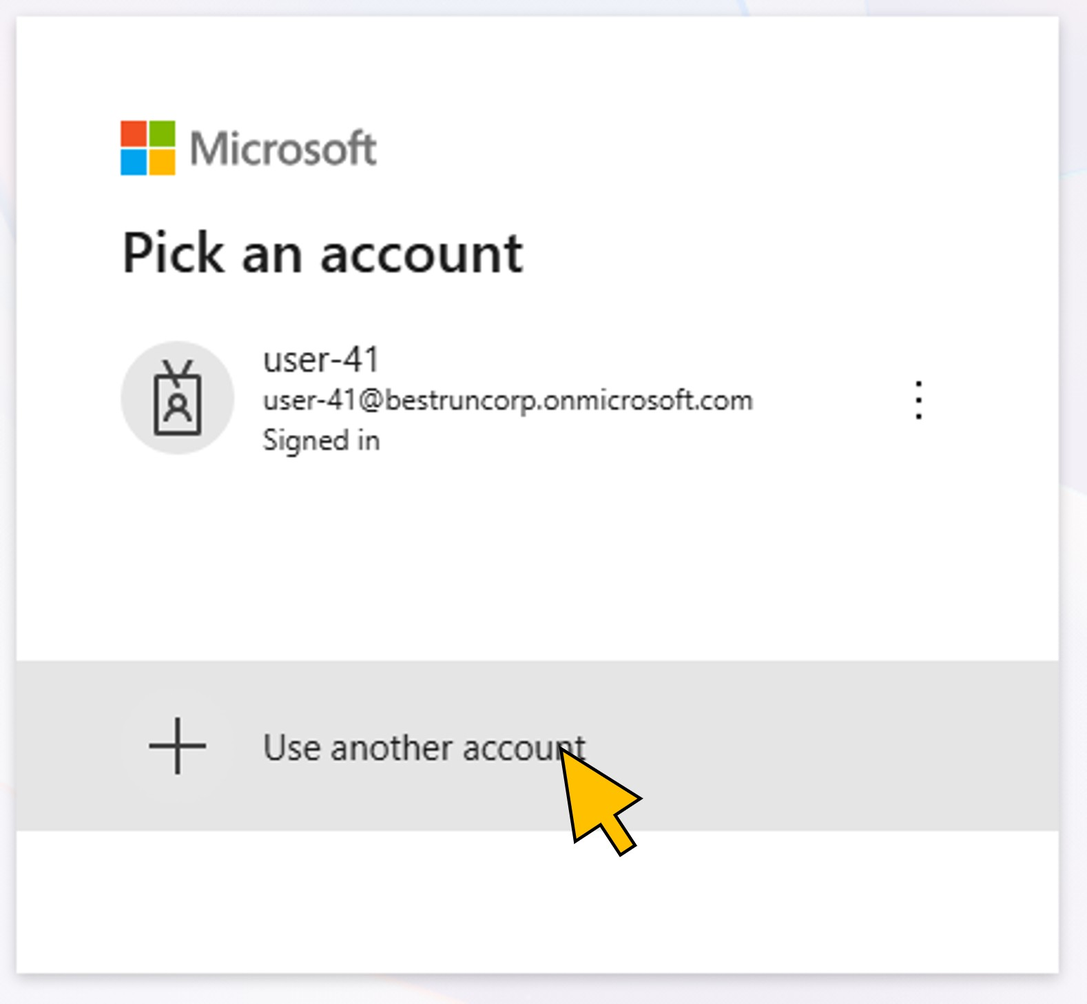
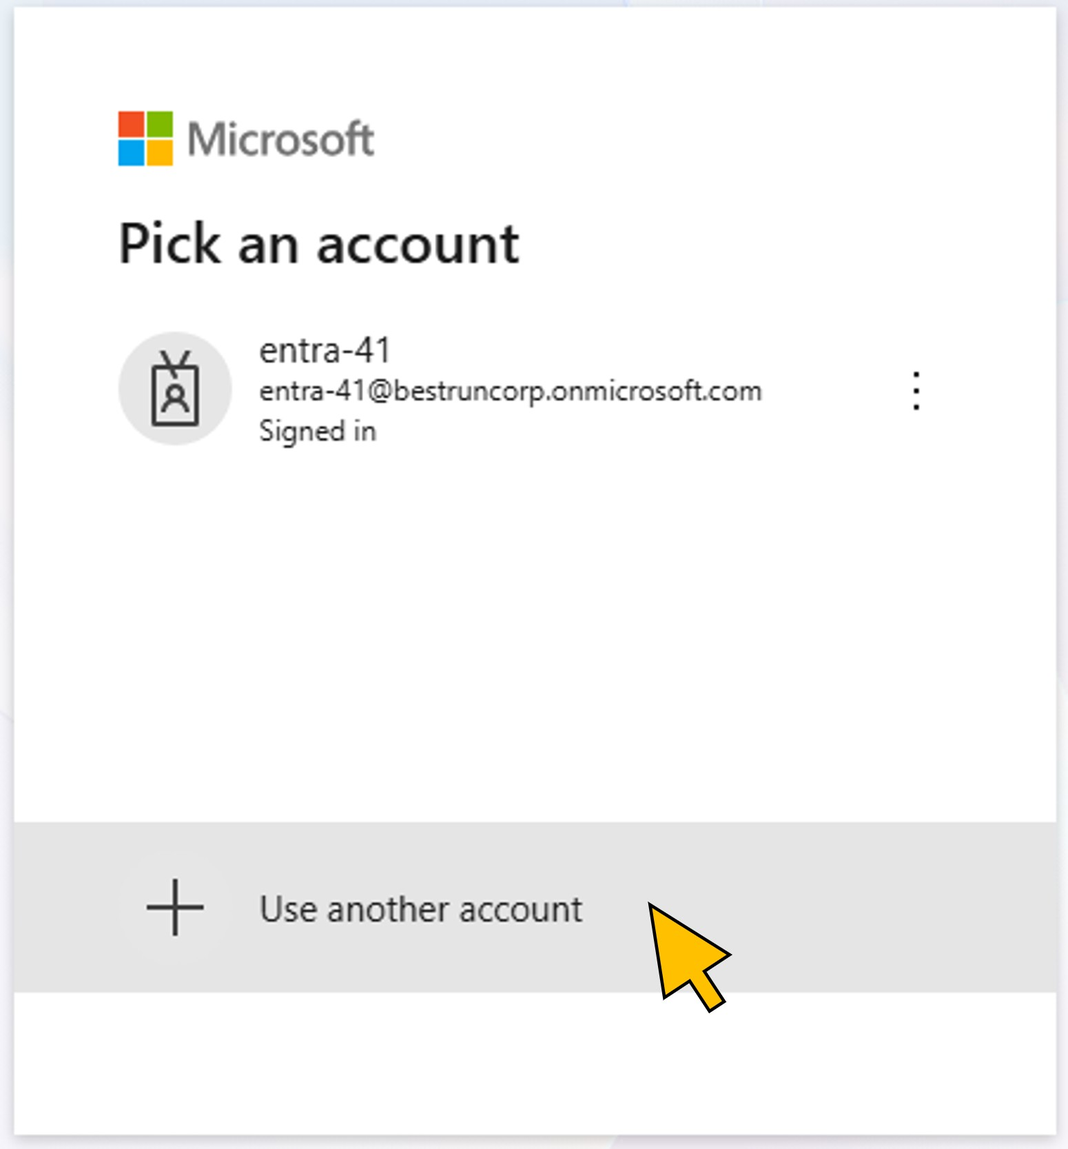
Added exercise 6

Changed region(s): [[0.0, 0.0309, 1.0, 1.0], [0.0929, 0.0927, 0.7123, 0.4633], [0.8052, 0.0, 0.8361, 0.0309]]

diff --git a/exercises/ex2/README.md b/exercises/ex2/README.md
@@ -7,7 +7,7 @@ In this exercise, you will work as a **Microsoft Entra administrator** and confi
 
 *Figure 1: Exercise 2*<br><br>
 
-Microsoft Entra entitlement management organizes access through **catalogs**, **resources**, and **access packages**. An access package bundles the resources that a user needs for a particular business purpose and defines the policies governing how that access can be requested and approved.
+Microsoft Entra ID Entitlement Management organizes access through **catalogs**, **resources**, and **access packages**. An access package bundles the resources that a user needs for a particular business purpose and defines the policies governing how that access can be requested and approved.
 
 For this scenario, the SAP Cloud IAG business role `BR_XP263_<NN>` is made available as a resource in the Microsoft Entra catalog. You will include this resource in the `AP_XP263_<NN>` access package together with the Microsoft Entra resources required by the scenario.
 
@@ -20,32 +20,32 @@ At the end of this exercise, the access package is available for eligible busine
 | :----- | :------------------------- | :--------- |
 | 01     | Switch back to the **Microsoft Entra admin center** in the first browser tab.<br><br>Navigate to **ID Governance &rarr; Entitlement management**.|<a href="./images/2-1.jpg" target="_blank"><img src="./images/2-1.jpg" width="250"/></a>|
 | 02     | Select **Catalogs** from the **Entitlement management** submenu.<br><br>Click **New catalog**.|<a href="./images/2-2.jpg" target="_blank"><img src="./images/2-2.jpg" width="250"/></a>|
-| 03     | Enter **`XP263_<NN>`** for the name of the new catalog. |<a href="./images/2-3.jpg" target="_blank"><img src="./images/2-3.jpg" width="250"/></a>|
-| 04     | abc |<a href="./images/2-4.jpg" target="_blank"><img src="./images/2-4.jpg" width="250"/></a>|
-| 05     | abc |<a href="./images/2-5.jpg" target="_blank"><img src="./images/2-5.jpg" width="250"/></a>|
-| 06     | abc |<a href="./images/2-6.jpg" target="_blank"><img src="./images/2-6.jpg" width="250"/></a>|
-| 07     | abc |<a href="./images/2-7.jpg" target="_blank"><img src="./images/2-7.jpg" width="250"/></a>|
-| 08     | abc |<a href="./images/2-8.jpg" target="_blank"><img src="./images/2-8.jpg" width="250"/></a>|
-| 09     | abc |<a href="./images/2-9.jpg" target="_blank"><img src="./images/2-9.jpg" width="250"/></a>|
-| 10     | abc |<a href="./images/2-10.jpg" target="_blank"><img src="./images/2-10.jpg" width="250"/></a>|
-| 11     | abc |<a href="./images/2-11.jpg" target="_blank"><img src="./images/2-11.jpg" width="250"/></a>|
-| 12     | abc |<a href="./images/2-12.jpg" target="_blank"><img src="./images/2-12.jpg" width="250"/></a>|
-| 13     | abc |<a href="./images/2-13.jpg" target="_blank"><img src="./images/2-13.jpg" width="250"/></a>|
-| 14     | abc |<a href="./images/2-14.jpg" target="_blank"><img src="./images/2-14.jpg" width="250"/></a>|
-| 15     | abc |<a href="./images/2-15.jpg" target="_blank"><img src="./images/2-15.jpg" width="250"/></a>|
-| 16     | abc |<a href="./images/2-16.jpg" target="_blank"><img src="./images/2-16.jpg" width="250"/></a>|
-| 17     | abc |<a href="./images/2-17.jpg" target="_blank"><img src="./images/2-17.jpg" width="250"/></a>|
-| 18     | abc |<a href="./images/2-18.jpg" target="_blank"><img src="./images/2-18.jpg" width="250"/></a>|
-| 19     | abc |<a href="./images/2-19.jpg" target="_blank"><img src="./images/2-19.jpg" width="250"/></a>|
-| 20     | abc |<a href="./images/2-20.jpg" target="_blank"><img src="./images/2-20.jpg" width="250"/></a>|
-| 21     | abc |<a href="./images/2-21.jpg" target="_blank"><img src="./images/2-21.jpg" width="250"/></a>|
-| 22     | abc |<a href="./images/2-22.jpg" target="_blank"><img src="./images/2-22.jpg" width="250"/></a>|
-| 23     | abc |<a href="./images/2-23.jpg" target="_blank"><img src="./images/2-23.jpg" width="250"/></a>|
-| 24     | abc |<a href="./images/2-24.jpg" target="_blank"><img src="./images/2-24.jpg" width="250"/></a>|
-| 25     | abc |<a href="./images/2-25.jpg" target="_blank"><img src="./images/2-25.jpg" width="250"/></a>|
-| 26     | abc |<a href="./images/2-26.jpg" target="_blank"><img src="./images/2-26.jpg" width="250"/></a>|
-| 27     | abc |<a href="./images/2-27.jpg" target="_blank"><img src="./images/2-27.jpg" width="250"/></a>|
-| 28     | abc |<a href="./images/2-28.jpg" target="_blank"><img src="./images/2-28.jpg" width="250"/></a>|
+| 03     | Enter **`XP263_<NN>`** for the name of the new catalog, and a description, for example "*Catalog for session XP263*". Replace **`<NN>`** with the number of your seat.<br><br>Click **Create**. |<a href="./images/2-3.jpg" target="_blank"><img src="./images/2-3.jpg" width="250"/></a>|
+| 04     | Select your new catalog **`XP263_<NN>`** from the list. |<a href="./images/2-4.jpg" target="_blank"><img src="./images/2-4.jpg" width="250"/></a>|
+| 05     | Navigate to **Resources** in the menu.<br><br>Click **Add resources**.|<a href="./images/2-5.jpg" target="_blank"><img src="./images/2-5.jpg" width="250"/></a>|
+| 06     | Click **Groups and Teams**.|<a href="./images/2-6.jpg" target="_blank"><img src="./images/2-6.jpg" width="250"/></a>|
+| 07     | In the search bar, enter "*Procurement*". From the search results, **activate** the checkbox for the group **ProcurementTeam** to select it.<br><br>Click **Select**.|<a href="./images/2-7.jpg" target="_blank"><img src="./images/2-7.jpg" width="250"/></a>|
+| 08     | Click **External Resources**.|<a href="./images/2-8.jpg" target="_blank"><img src="./images/2-8.jpg" width="250"/></a>|
+| 09     | From the **Connector** drop-down list, select **SAP TechEd XP263**.<br>For **Resource Type**, select **Business Role**.<br><br>Click on the resource **SAP IAG Access Rights** to select it.<br><br>Click **Select**.|<a href="./images/2-9.jpg" target="_blank"><img src="./images/2-9.jpg" width="250"/></a>|
+| 10     | Click **Add**. |<a href="./images/2-10.jpg" target="_blank"><img src="./images/2-10.jpg" width="250"/></a>|
+| 11     | Navigate to **Access packages** in the menu. Click **New access package**.|<a href="./images/2-11.jpg" target="_blank"><img src="./images/2-11.jpg" width="250"/></a>|
+| 12     | Enter **`AP_XP263_<NN>`** for the **Name** of the new acccess package, and provide a **Description** (for example "*Access package for session XP263*).<br><br>Click **Next: Resource roles**.|<a href="./images/2-12.jpg" target="_blank"><img src="./images/2-12.jpg" width="250"/></a>|
+| 13     | Click **Groups and Teams**. |<a href="./images/2-13.jpg" target="_blank"><img src="./images/2-13.jpg" width="250"/></a>|
+| 14     | **Activate** the checkbox for **ProcurementTeam** from the search results to select it.<br><br>Click **Select**. |<a href="./images/2-14.jpg" target="_blank"><img src="./images/2-14.jpg" width="250"/></a>|
+| 15     | From the **Role** drop-down list of the **ProcurementTeam** group resource, select **Member**. |<a href="./images/2-15.jpg" target="_blank"><img src="./images/2-15.jpg" width="250"/></a>|
+| 16     | Click **External Resources**. |<a href="./images/2-16.jpg" target="_blank"><img src="./images/2-16.jpg" width="250"/></a>|
+| 17     | Click **SAP IAG Access Rights** from the list to select it.<br><br>Click **Select**.|<a href="./images/2-17.jpg" target="_blank"><img src="./images/2-17.jpg" width="250"/></a>|
+| 18     | From the **Role** drop-down list of the **SAP IAG Access Rights** business role resource, select the business role **`BR_XP263_<NN>`** you created in the [previous exercise](../ex1/README.md).<br><br>Replace **`<NN>`** with the number of your seat.|<a href="./images/2-18.jpg" target="_blank"><img src="./images/2-18.jpg" width="250"/></a>|
+| 19     | Click **Next: Requests**. |<a href="./images/2-19.jpg" target="_blank"><img src="./images/2-19.jpg" width="250"/></a>|
+| 20     | For **Who can get access**, select the first option **For users, service principals, and agent identities in your directory**.<br><br>For **Select specific scope**, select the option **Specifc users and groups**.<br><br>Click **+ Add users and groups**. |<a href="./images/2-20.jpg" target="_blank"><img src="./images/2-20.jpg" width="250"/></a>|
+| 21     | Enter your business user's name **`user-<NN>`** in the search bar. Replace **`<NN>`** with the number of your seat.<br><br>From the search results, activate the checkbox to select your user.<br><br>Click **Select**.|<a href="./images/2-21.jpg" target="_blank"><img src="./images/2-21.jpg" width="250"/></a>|
+| 22     | For **Who can request access**, **activate** the checkbox for **Self**.<br><br>Choose **No** for **Require requestor justification**.<br><br>For the **Approval** settings, select **Yes** to **Require approval**, and **1** for **How many stages**.<br><br>From the **First Approver** drop-down list, select **Choose specific approvers**.<br><br>Click **Add approvers**.|<a href="./images/2-22.jpg" target="_blank"><img src="./images/2-22.jpg" width="250"/></a>|
+| 23     | Enter your Entra approver's name **`entra-<NN>`** in the search bar. Replace **`<NN>`** with the number of your seat.<br><br>From the search results, activate the checkbox to select your user.<br><br>Click **Select**. |<a href="./images/2-23.jpg" target="_blank"><img src="./images/2-23.jpg" width="250"/></a>|
+| 24     | Choose **No** for **Require approver justification**.<br><br>Choose **Yes** for **Disable assignment emails**.<br><br>Click **Next: Requestor Information**. |<a href="./images/2-24.jpg" target="_blank"><img src="./images/2-24.jpg" width="250"/></a>|
+| 25     | Click **Next: Lifecycle**. |<a href="./images/2-25.jpg" target="_blank"><img src="./images/2-25.jpg" width="250"/></a>|
+| 26     | Choose **Never** for **Access package assignment expire**.<br><br>Choose **No** for **Users can request specific timeline**.<br><br>Choose **No** for **Allow users to extend access**.<br><br>**Click Review + create**.|<a href="./images/2-26.jpg" target="_blank"><img src="./images/2-26.jpg" width="250"/></a>|
+| 27     | Click **Create**. |<a href="./images/2-27.jpg" target="_blank"><img src="./images/2-27.jpg" width="250"/></a>|
+| 28     | **Copy** the link of the new **access package** in the **My Access portal** to the clipboard. |<a href="./images/2-28.jpg" target="_blank"><img src="./images/2-28.jpg" width="250"/></a>|
 
 
 Continue to - [Exercise 3 - Request the access package in Microsoft Entra](../ex3/README.md)

diff --git a/exercises/ex6/README.md b/exercises/ex6/README.md
@@ -17,10 +17,25 @@ At the end of this exercise, you will have completed the full scenario.
 
 | Step   | Description                | Screenshot |
 | :----- | :------------------------- | :--------- |
-| 01     | abc |<a href="./images/6-1.jpg" target="_blank"><img src="./images/6-1.jpg" width="250"/></a>|
-| 02     | abc |<a href="./images/6-2.jpg" target="_blank"><img src="./images/6-2.jpg" width="250"/></a>|
-| 03     | abc |<a href="./images/6-3.jpg" target="_blank"><img src="./images/6-3.jpg" width="250"/></a>|
-| 04     | abc |<a href="./images/6-4.jpg" target="_blank"><img src="./images/6-4.jpg" width="250"/></a>|
-| 05     | abc |<a href="./images/6-5.jpg" target="_blank"><img src="./images/6-5.jpg" width="250"/></a>|
-| 06     | abc |<a href="./images/6-6.jpg" target="_blank"><img src="./images/6-6.jpg" width="250"/></a>|
-| 07     | abc |<a href="./images/6-7.jpg" target="_blank"><img src="./images/6-7.jpg" width="250"/></a>|
+| 01     | Go back to the **Google Chrome** browser and switch to the second tab. If your session has already expired, login again to the SAP Cloud IAG tenant with your IAG admin user **`admin-<NN>`**.<br><br>Navigate **back** to the **Home** page of the SAP Cloud IAG Fiori Launchpad.|<a href="./images/6-1.jpg" target="_blank"><img src="./images/6-1.jpg" width="250"/></a>|
+| 02     | On the **Home** page, click the **Job Scheduler** tile. |<a href="./images/6-2.jpg" target="_blank"><img src="./images/6-2.jpg" width="250"/></a>|
+| 03     | Enter *`XP263_<NN>`* for the **Job Name**.<br><br>Replace **`<NN>`** with the number of your seat.<br><br>Select **Provisioning** from the **Job Category** drop-down list.<br><br>Click **Schedule Job**.|<a href="./images/6-3.jpg" target="_blank"><img src="./images/6-3.jpg" width="250"/></a>|
+| 04     | Navigate **back** to the **Home** page. |<a href="./images/6-4.jpg" target="_blank"><img src="./images/6-4.jpg" width="250"/></a>|
+| 05     | Click the **Job History List** tile.|<a href="./images/6-5.jpg" target="_blank"><img src="./images/6-5.jpg" width="250"/></a>|
+| 06     | Expand the **Provisioning** Job Category and select your job with the name *`XP263_<NN>`* from the list.|<a href="./images/6-6.jpg" target="_blank"><img src="./images/6-6.jpg" width="250"/></a>|
+| 07     | Wait for the **Status** to be **Completed**. Click **Refresh** to update the status.<br><br>Then select the job execution from the list and switch to the **Job Logs** tab.<br><br>In the Job Logs, search for two entries reporting successful provisioning of the **ProcurementManager** assignment in the SAP BTP CAP application, and the **Z_MM_PURCHASER** role in the S/4HANA system. |<a href="./images/6-7.jpg" target="_blank"><img src="./images/6-7.jpg" width="250"/></a>|
+| 08     | Go back to the **Microsoft Edge browser** and open a new **InPrivate** window. |<a href="./images/6-8.jpg" target="_blank"><img src="./images/6-8.jpg" width="250"/></a>|
+| 09     | Go to the [Purchase Requisition App](https://sap-teched-2026-xp263-xp263-6cntx8l6-dev-procurement.cfapps.us20.hana.ondemand.com/) at `https://sap-teched-2026-xp263-xp263-6cntx8l6-dev-procurement.cfapps.us20.hana.ondemand.com/` on SAP BTP.<br><br>Login with your business user's account **`user-<NN>@bestruncorp.onmicrosoft.com`**.<br><br> Replace **`<NN>`** with the number of your seat.<br><br> |<a href="./images/6-9.jpg" target="_blank"><img src="./images/6-9.jpg" width="250"/></a>|
+| 10     | Enter the user's password.<br><br>Click **Sign in**.|<a href="./images/6-10.jpg" target="_blank"><img src="./images/6-10.jpg" width="250"/></a>|
+| 11     | Click **Next**. |<a href="./images/6-11.jpg" target="_blank"><img src="./images/6-11.jpg" width="250"/></a>|
+| 12     | Click **Skip setup**. |<a href="./images/6-12.jpg" target="_blank"><img src="./images/6-12.jpg" width="250"/></a>|
+| 13     | Click **Yes**. |<a href="./images/6-13.jpg" target="_blank"><img src="./images/6-13.jpg" width="250"/></a>|
+| 14     | You are successfully signed on in the SAP BTP application and are authorized to **manage purchase requisitions**.|<a href="./images/6-14.jpg" target="_blank"><img src="./images/6-14.jpg" width="250"/></a>|
+| 15     | Open the Windows **Start** menu on the desktop and launch the **SAP Logon** app.|<a href="./images/6-15.jpg" target="_blank"><img src="./images/6-15.jpg" width="250"/></a>|
+| 16     | Select the S/4HANA backend system **HE4** from the list. |<a href="./images/6-16.jpg" target="_blank"><img src="./images/6-16.jpg" width="250"/></a>|
+| 17     | Login with your backend system user **`USER-<NN>`**.<br><br> Replace **`<NN>`** with the number of your seat.|<a href="./images/6-17.jpg" target="_blank"><img src="./images/6-17.jpg" width="250"/></a>|
+| 18     | Provide a new password of your choice. |<a href="./images/6-18.jpg" target="_blank"><img src="./images/6-18.jpg" width="250"/></a>|
+| 19     | You are successfully signed on in the S/4HANA system and authorized to **manage purchase orders**.|<a href="./images/6-19.jpg" target="_blank"><img src="./images/6-19.jpg" width="250"/></a>|
+| 20     | In your **Microsoft Edge** browser, go back to the *Microsoft Entra admin center* on the **first** tab.<br><br>Navigate to **Requests** in your access package.<br><br>Verify that the **Status** and **Sub-status** of your business user's access package request are both set to *`Delivered`*.|<a href="./images/6-20.jpg" target="_blank"><img src="./images/6-20.jpg" width="250"/></a>|
+| 21     | Navigate to **Entra ID &rarr; Groups**.<br><br>Enter *"Procurement"* in the **search** field.<br><br>Click on the **ProcurementTeam** group in the search results.|<a href="./images/6-21.jpg" target="_blank"><img src="./images/6-21.jpg" width="250"/></a>|
+| 22     | Navigate to **Members**.<br><br>Verify that your business user **`user-<NN>`** has been added as a group member.|<a href="./images/6-22.jpg" target="_blank"><img src="./images/6-22.jpg" width="250"/></a>|

diff --git a/exercises/ex5/README.md b/exercises/ex5/README.md
@@ -17,17 +17,17 @@ At the end of this exercise, all required approvals are complete and SAP Cloud I
 
 | Step   | Description                | Screenshot |
 | :----- | :------------------------- | :--------- |
-| 01     | abc |<a href="./images/5-1.jpg" target="_blank"><img src="./images/5-1.jpg" width="250"/></a>|
-| 02     | abc |<a href="./images/5-2.jpg" target="_blank"><img src="./images/5-2.jpg" width="250"/></a>|
-| 03     | abc |<a href="./images/5-3.jpg" target="_blank"><img src="./images/5-3.jpg" width="250"/></a>|
-| 04     | abc |<a href="./images/5-4.jpg" target="_blank"><img src="./images/5-4.jpg" width="250"/></a>|
-| 05     | abc |<a href="./images/5-5.jpg" target="_blank"><img src="./images/5-5.jpg" width="250"/></a>|
-| 06     | abc |<a href="./images/5-6.jpg" target="_blank"><img src="./images/5-6.jpg" width="250"/></a>|
-| 07     | abc |<a href="./images/5-7.jpg" target="_blank"><img src="./images/5-7.jpg" width="250"/></a>|
-| 08     | abc |<a href="./images/5-8.jpg" target="_blank"><img src="./images/5-8.jpg" width="250"/></a>|
-| 09     | abc |<a href="./images/5-9.jpg" target="_blank"><img src="./images/5-9.jpg" width="250"/></a>|
-| 10     | abc |<a href="./images/5-10.jpg" target="_blank"><img src="./images/5-10.jpg" width="250"/></a>|
-| 11     | abc |<a href="./images/5-11.jpg" target="_blank"><img src="./images/5-11.jpg" width="250"/></a>|
-| 12     | abc |<a href="./images/5-12.jpg" target="_blank"><img src="./images/5-12.jpg" width="250"/></a>|
+| 01     | Open a **new tab** in the Microsoft Edge browser. |<a href="./images/5-1.jpg" target="_blank"><img src="./images/5-1.jpg" width="250"/></a>|
+| 02     | Go to the SAP Cloud IAG tenant URL [https://xp263-6cntx8l6.sapciag-ee.cfapps.us20.hana.ondemand.com](https://xp263-6cntx8l6.sapciag-ee.cfapps.us20.hana.ondemand.com).<br><br>To login, **click** the first identity provider (**axzamhxt8.accounts.ondemand.com**) from the list. |<a href="./images/5-2.jpg" target="_blank"><img src="./images/5-2.jpg" width="250"/></a>|
+| 03     | Click **Use another account**. |<a href="./images/5-3.jpg" target="_blank"><img src="./images/5-3.jpg" width="250"/></a>|
+| 04     | Enter your IAG approver's username **`iag-<NN>@bestruncorp.onmicrosoft.com`**.<br><br>Replace **`<NN>`** with the number of your seat.<br><br>Click **Next**.|<a href="./images/5-4.jpg" target="_blank"><img src="./images/5-4.jpg" width="250"/></a>|
+| 05     | Enter the password.<br><br>Click **Sign in**. |<a href="./images/5-5.jpg" target="_blank"><img src="./images/5-5.jpg" width="250"/></a>|
+| 06     | Click **Next**. |<a href="./images/5-6.jpg" target="_blank"><img src="./images/5-6.jpg" width="250"/></a>|
+| 07     | Click on your **IAG approver's** account **`iag-<NN>@bestruncorp.onmicrosoft.com`**. |<a href="./images/5-7.jpg" target="_blank"><img src="./images/5-7.jpg" width="250"/></a>|
+| 08     | Click **Skip setup**. |<a href="./images/5-8.jpg" target="_blank"><img src="./images/5-8.jpg" width="250"/></a>|
+| 09     | Click **Yes**. |<a href="./images/5-9.jpg" target="_blank"><img src="./images/5-9.jpg" width="250"/></a>|
+| 10     | Click the **Access Request Inbox** tile. |<a href="./images/5-10.jpg" target="_blank"><img src="./images/5-10.jpg" width="250"/></a>|
+| 11     | Select your business user's access request from the list. |<a href="./images/5-11.jpg" target="_blank"><img src="./images/5-11.jpg" width="250"/></a>|
+| 12     | Select **Approve** and click **Submit**. |<a href="./images/5-12.jpg" target="_blank"><img src="./images/5-12.jpg" width="250"/></a>|
 
 Continue to - [Exercise 6 - Provision and verify user access](../ex6/README.md)

diff --git a/exercises/ex4/README.md b/exercises/ex4/README.md
@@ -15,16 +15,16 @@ At the end of this exercise, the Microsoft Entra approval stage is complete and 
 
 | Step   | Description                | Screenshot |
 | :----- | :------------------------- | :--------- |
-| 01     | abc |<a href="./images/4-1.jpg" target="_blank"><img src="./images/4-1.jpg" width="250"/></a>|
-| 02     | abc |<a href="./images/4-2.jpg" target="_blank"><img src="./images/4-2.jpg" width="250"/></a>|
-| 03     | abc |<a href="./images/4-3.jpg" target="_blank"><img src="./images/4-3.jpg" width="250"/></a>|
-| 04     | abc |<a href="./images/4-4.jpg" target="_blank"><img src="./images/4-4.jpg" width="250"/></a>|
-| 05     | abc |<a href="./images/4-5.jpg" target="_blank"><img src="./images/4-5.jpg" width="250"/></a>|
-| 06     | abc |<a href="./images/4-6.jpg" target="_blank"><img src="./images/4-6.jpg" width="250"/></a>|
-| 07     | abc |<a href="./images/4-7.jpg" target="_blank"><img src="./images/4-7.jpg" width="250"/></a>|
-| 08     | abc |<a href="./images/4-8.jpg" target="_blank"><img src="./images/4-8.jpg" width="250"/></a>|
-| 09     | abc |<a href="./images/4-9.jpg" target="_blank"><img src="./images/4-9.jpg" width="250"/></a>|
-| 10     | abc |<a href="./images/4-10.jpg" target="_blank"><img src="./images/4-10.jpg" width="250"/></a>|
-| 11     | abc |<a href="./images/4-11.jpg" target="_blank"><img src="./images/4-11.jpg" width="250"/></a>|
+| 01     | Click on your user's initials **`U`**.<br><br>Click **Sign out** from the profile menu.|<a href="./images/4-1.jpg" target="_blank"><img src="./images/4-1.jpg" width="250"/></a>|
+| 02     | Select your business user's account from the list.|<a href="./images/4-2.jpg" target="_blank"><img src="./images/4-2.jpg" width="250"/></a>|
+| 03     | Wait for your business user to sign out.<br><br>Click **Use another account**.|<a href="./images/4-3.jpg" target="_blank"><img src="./images/4-3.jpg" width="250"/></a>|
+| 04     | Sign in with your Entra approver's login name **`entra-<NN>@bestruncorp.onmicrosoft.com`**.<br><br>Replace **`<NN>`** with the number of your seat.<br><br>Click **Next**.|<a href="./images/4-4.jpg" target="_blank"><img src="./images/4-4.jpg" width="250"/></a>|
+| 05     | Enter the user's password.<br><br>Click **Sign in**. |<a href="./images/4-5.jpg" target="_blank"><img src="./images/4-5.jpg" width="250"/></a>|
+| 06     | Click **Next**. |<a href="./images/4-6.jpg" target="_blank"><img src="./images/4-6.jpg" width="250"/></a>|
+| 07     | Click **Skip setup**. |<a href="./images/4-7.jpg" target="_blank"><img src="./images/4-7.jpg" width="250"/></a>|
+| 08     | Click **Yes**. |<a href="./images/4-8.jpg" target="_blank"><img src="./images/4-8.jpg" width="250"/></a>|
+| 09     | Click **Approve or deny now**. |<a href="./images/4-9.jpg" target="_blank"><img src="./images/4-9.jpg" width="250"/></a>|
+| 10     | *Activate* the checkbox of your business user's access package request in the list of **Pending** requests.<br><br>Click **Approve**. |<a href="./images/4-10.jpg" target="_blank"><img src="./images/4-10.jpg" width="250"/></a>|
+| 11     | Enter a reason, for example "*Access approved*", and click **Submit**. |<a href="./images/4-11.jpg" target="_blank"><img src="./images/4-11.jpg" width="250"/></a>|
 
 Continue to - [Exercise 5 - Approve the access request in SAP Cloud IAG](../ex5/README.md)

diff --git a/exercises/ex3/README.md b/exercises/ex3/README.md
@@ -17,16 +17,16 @@ At the end of this exercise, the access package request has been submitted and i
 
 | Step   | Description                | Screenshot |
 | :----- | :------------------------- | :--------- |
-| 01     | abc |<a href="./images/3-1.jpg" target="_blank"><img src="./images/3-1.jpg" width="250"/></a>|
-| 02     | abc |<a href="./images/3-2.jpg" target="_blank"><img src="./images/3-2.jpg" width="250"/></a>|
-| 03     | abc |<a href="./images/3-3.jpg" target="_blank"><img src="./images/3-3.jpg" width="250"/></a>|
-| 04     | abc |<a href="./images/3-4.jpg" target="_blank"><img src="./images/3-4.jpg" width="250"/></a>|
-| 05     | abc |<a href="./images/3-5.jpg" target="_blank"><img src="./images/3-5.jpg" width="250"/></a>|
-| 06     | abc |<a href="./images/3-6.jpg" target="_blank"><img src="./images/3-6.jpg" width="250"/></a>|
-| 07     | abc |<a href="./images/3-7.jpg" target="_blank"><img src="./images/3-7.jpg" width="250"/></a>|
-| 08     | abc |<a href="./images/3-8.jpg" target="_blank"><img src="./images/3-8.jpg" width="250"/></a>|
-| 09     | abc |<a href="./images/3-9.jpg" target="_blank"><img src="./images/3-9.jpg" width="250"/></a>|
-| 10     | abc |<a href="./images/3-10.jpg" target="_blank"><img src="./images/3-10.jpg" width="250"/></a>|
-| 11     | abc |<a href="./images/3-11.jpg" target="_blank"><img src="./images/3-11.jpg" width="250"/></a>|
+| 01     | Launch the **Microsoft Edge** browser from your desktop.|<a href="./images/3-1.jpg" target="_blank"><img src="./images/3-1.jpg" width="250"/></a>|
+| 02     | Paste the link to the **My Access** portal from the clipboard into the browser. Enter your business user's login name **`user-<NN>@bestruncorp.onmicrosoft.com`**.<br><br>Replace **`<NN>`** with the number of your seat.<br><br>Click **Next**.|<a href="./images/3-2.jpg" target="_blank"><img src="./images/3-2.jpg" width="250"/></a>|
+| 03     | Enter the user's password.<br><br>Click **Sign in**. |<a href="./images/3-3.jpg" target="_blank"><img src="./images/3-3.jpg" width="250"/></a>|
+| 04     | Click **Next**. |<a href="./images/3-4.jpg" target="_blank"><img src="./images/3-4.jpg" width="250"/></a>|
+| 05     | **Select** your user's account. |<a href="./images/3-5.jpg" target="_blank"><img src="./images/3-5.jpg" width="250"/></a>|
+| 06     | Click **Skip setup**. |<a href="./images/3-6.jpg" target="_blank"><img src="./images/3-6.jpg" width="250"/></a>|
+| 07     | Click **Yes**. |<a href="./images/3-7.jpg" target="_blank"><img src="./images/3-7.jpg" width="250"/></a>|
+| 08     | In the dialog box opened for your access package, select **Continue**. |<a href="./images/3-8.jpg" target="_blank"><img src="./images/3-8.jpg" width="250"/></a>|
+| 09     | Click **Submit request**. |<a href="./images/3-9.jpg" target="_blank"><img src="./images/3-9.jpg" width="250"/></a>|
+| 10     | Check for the notification that your user's request for the access package is now processed.|<a href="./images/3-10.jpg" target="_blank"><img src="./images/3-10.jpg" width="250"/></a>|
+
 
 Continue to - [Exercise 4 - Approve the access package in Microsoft Entra](../ex4/README.md)
